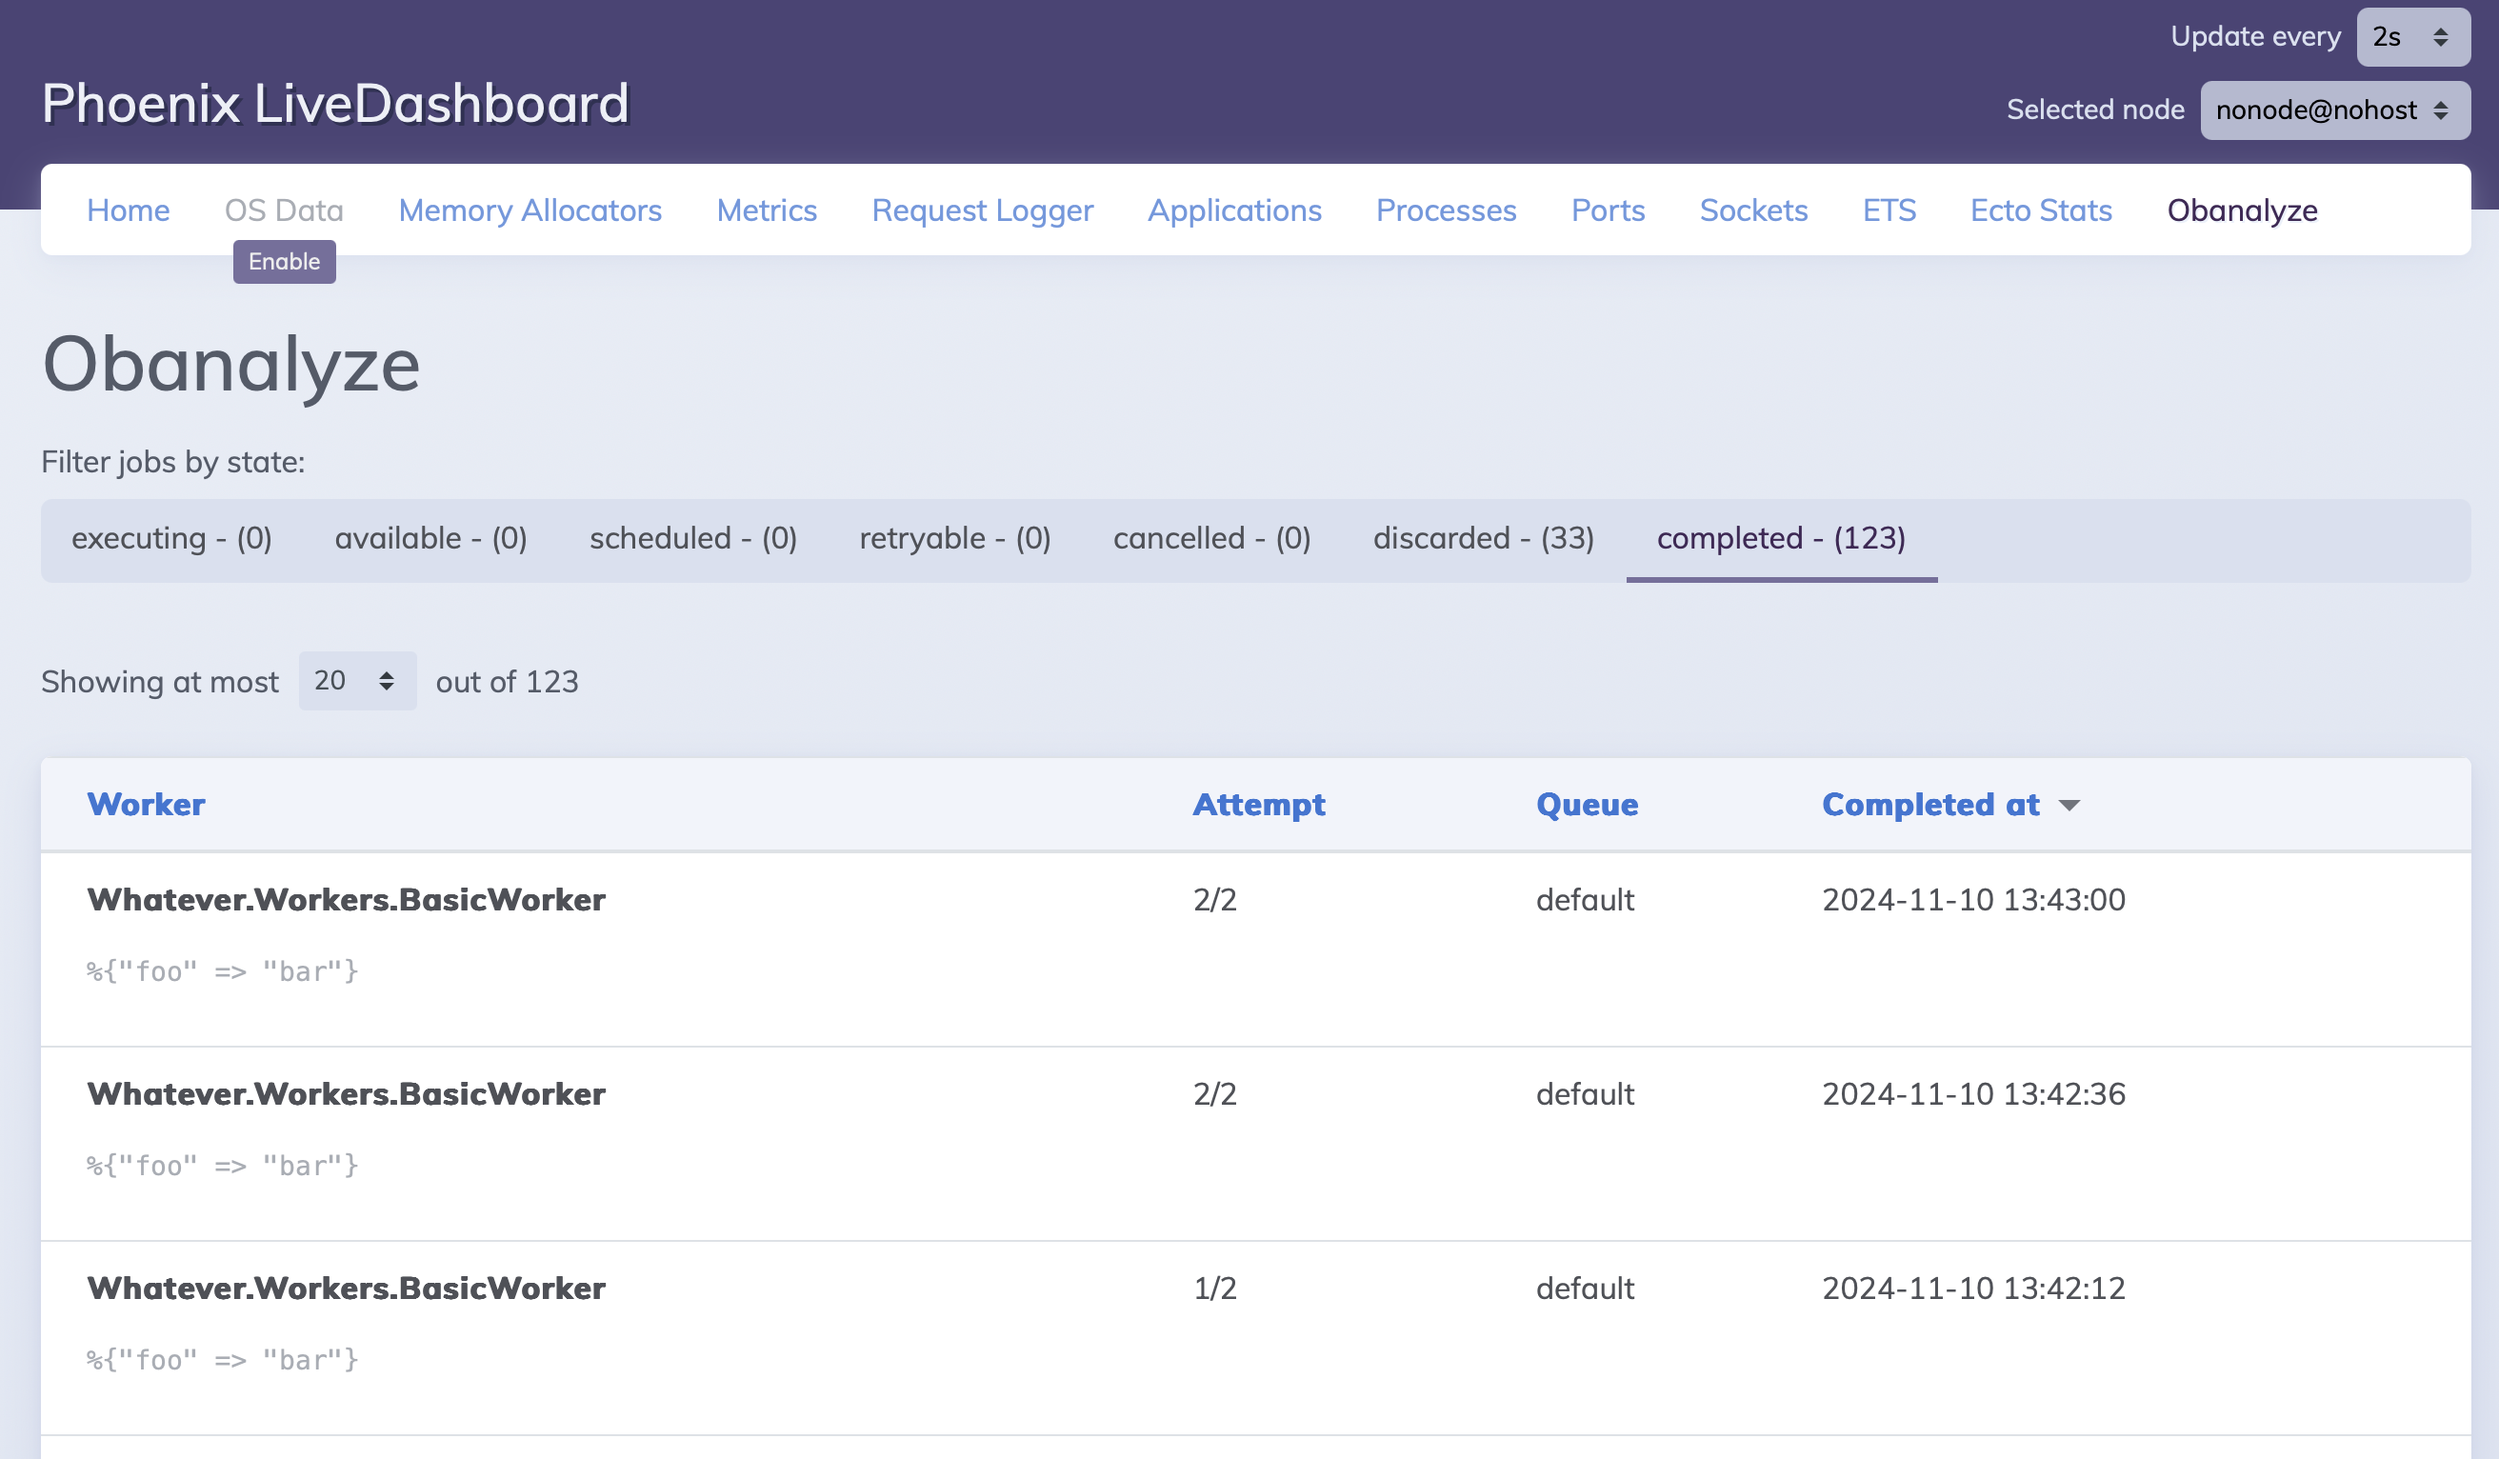
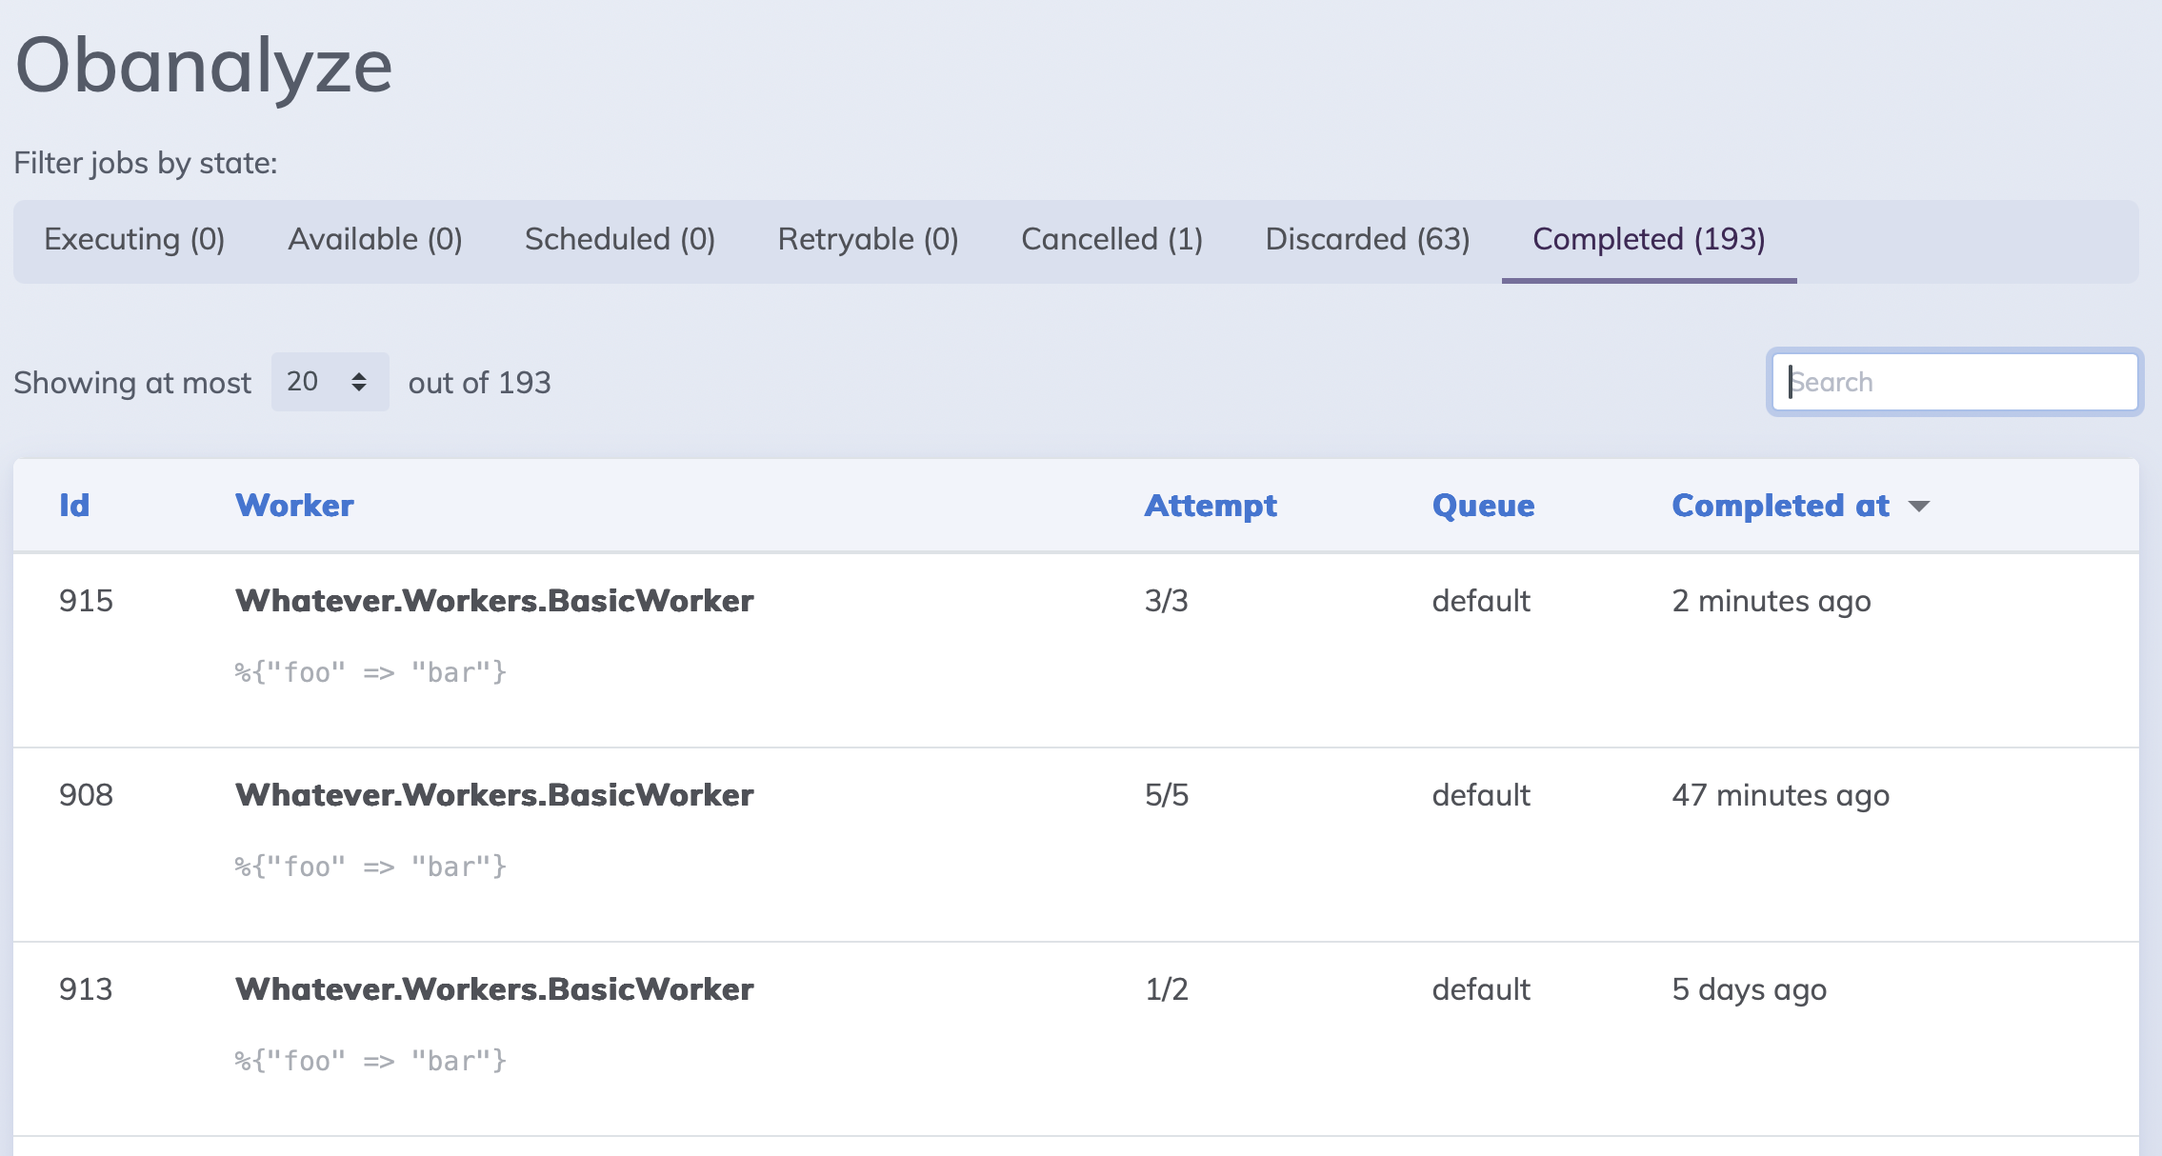
bump to 1.3.0

diff --git a/CHANGELOG.md b/CHANGELOG.md
@@ -1,5 +1,9 @@
 # CHANGELOG
 
+## v1.3.0
+
+* Add search.
+
 ## v1.2.0
 
 * Ability to retry, cancel, delete jobs from the modal.
